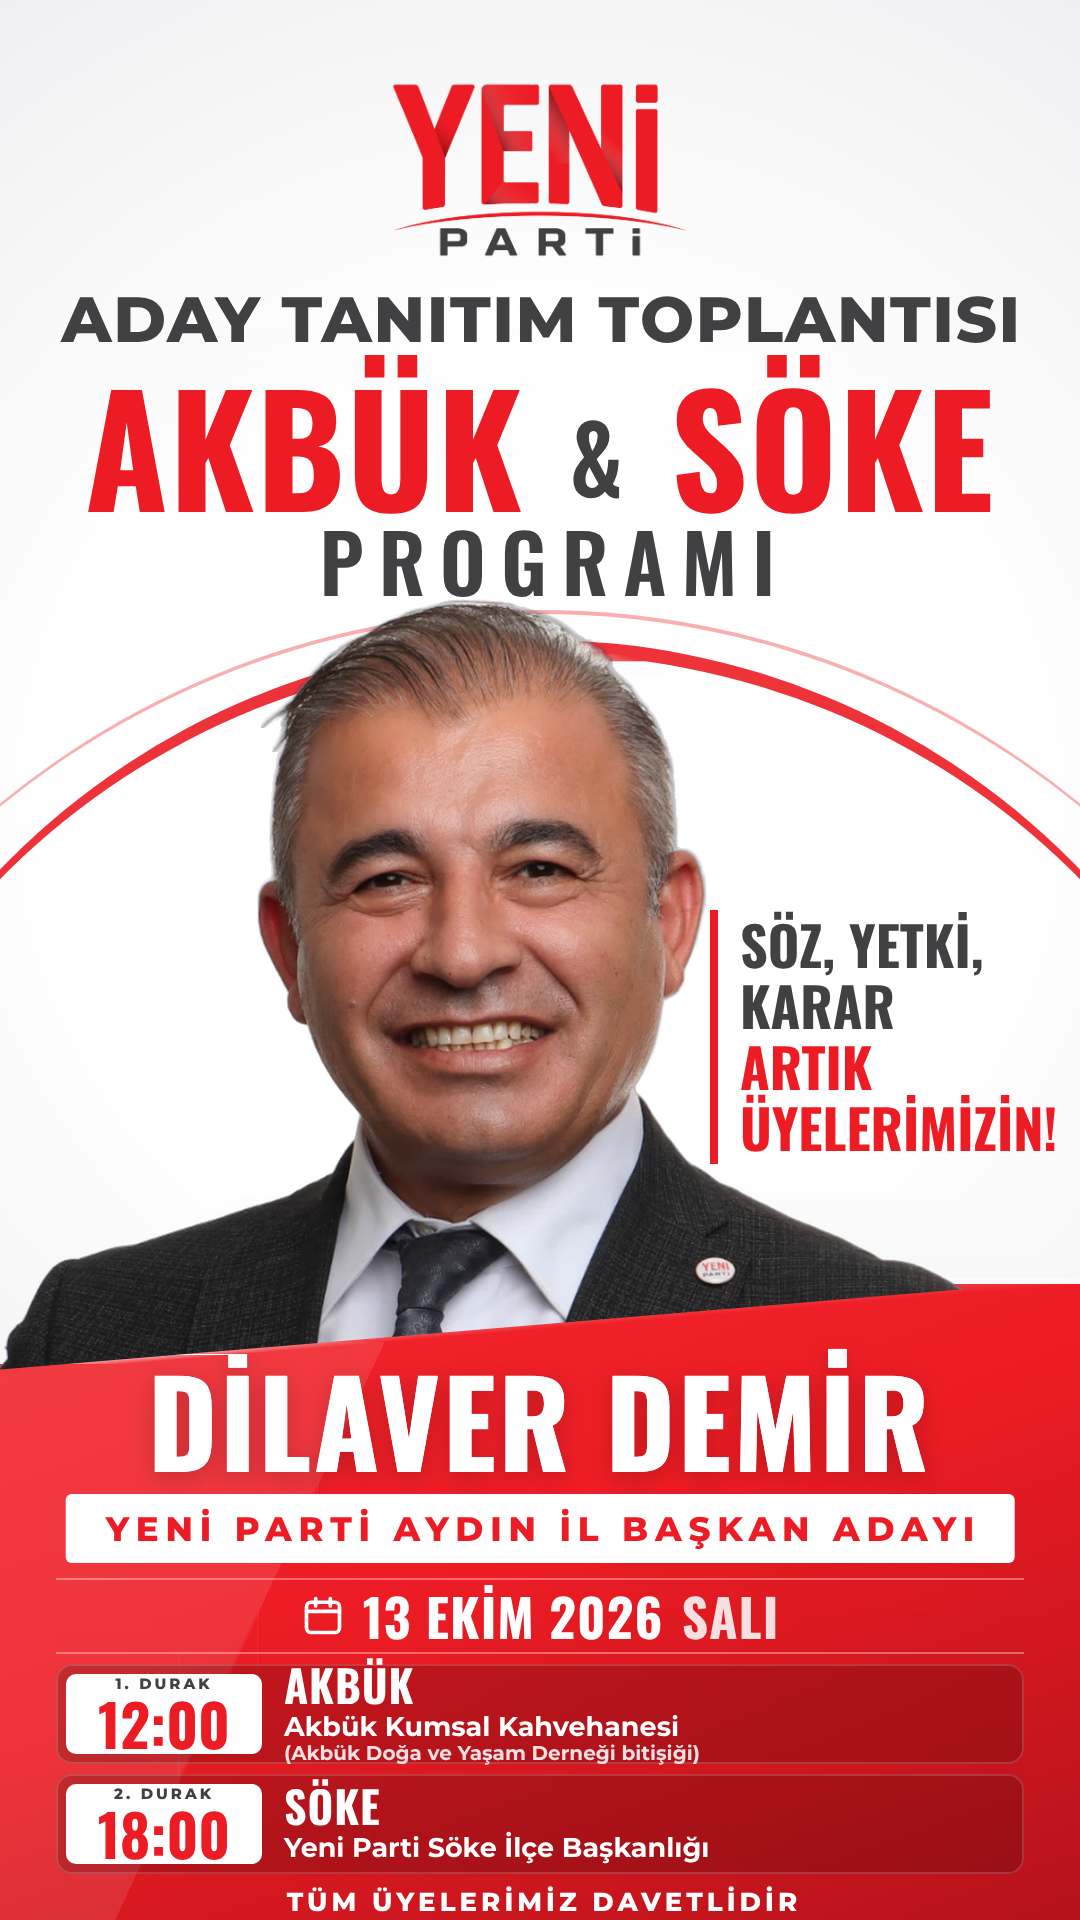
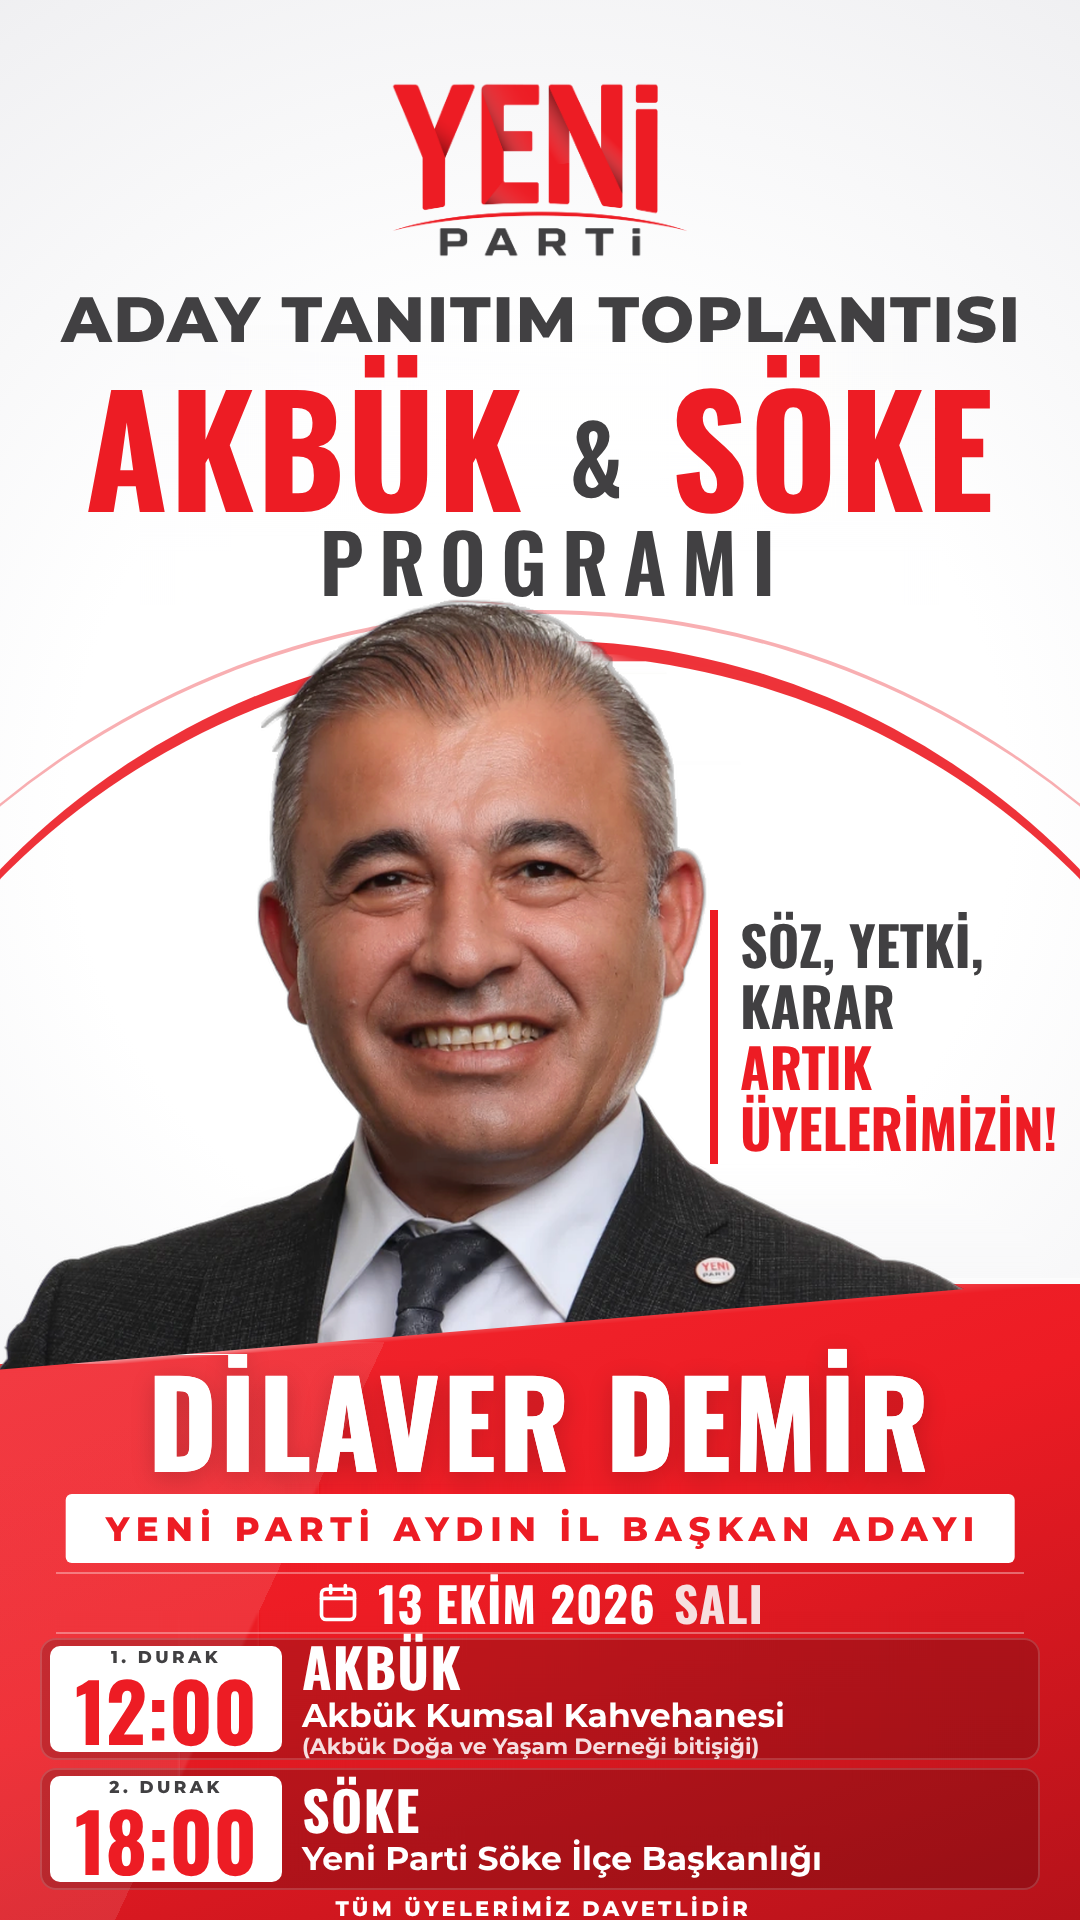
Akbük & Söke: saat ve konumlar büyütüldü
Claude-Session: https://claude.ai/code/session_01SatttGbgBLoCnk9KGLypWv

Changed region(s): [[0.0306, 0.8125, 0.9778, 1.0]]

diff --git a/tasarim/kisisel/incirliova-orgut/akbuk-soke.html b/tasarim/kisisel/incirliova-orgut/akbuk-soke.html
@@ -34,20 +34,20 @@ body{position:relative;background:url(zemin-buyuk.png) 0 0/1080px 1920px no-repe
   font:54px/1.13 O7;letter-spacing:0;color:var(--koyu)}
 .slogan em{display:block;font-style:normal;color:var(--kirmizi)}
 .sehir .ve{color:var(--koyu);font-size:.62em;vertical-align:.16em;margin:0 .06em}
-.tarih-bant{position:absolute;left:56px;right:56px;top:1578px;height:72px;display:flex;align-items:center;justify-content:center;gap:18px;
+.tarih-bant{position:absolute;left:56px;right:56px;top:1572px;height:58px;display:flex;align-items:center;justify-content:center;gap:18px;
   color:#fff;border-top:2px solid rgba(255,255,255,.35);border-bottom:2px solid rgba(255,255,255,.35)}
 .tarih-bant svg{width:44px;height:44px}
-.tarih-bant b{font:52px/1 O7;font-weight:normal;letter-spacing:.02em}
-.tarih-bant span{font:52px/1 O7;letter-spacing:.02em;color:var(--etiket)}
-.durak{position:absolute;left:56px;right:56px;height:100px;display:flex;align-items:center;gap:22px;
+.tarih-bant b{font:48px/1 O7;font-weight:normal;letter-spacing:.02em}
+.tarih-bant span{font:48px/1 O7;letter-spacing:.02em;color:var(--etiket)}
+.durak{position:absolute;left:40px;right:40px;height:122px;display:flex;align-items:center;gap:20px;
   background:rgba(0,0,0,.18);box-shadow:inset 0 0 0 2px rgba(255,255,255,.16);border-radius:16px;padding:0 24px 0 10px;box-sizing:border-box;color:#fff}
-.durak .saat{flex:none;width:196px;height:80px;background:#fff;border-radius:10px;color:var(--kirmizi);
-  display:flex;flex-direction:column;align-items:center;justify-content:center;font:58px/1 O7}
-.durak .saat small{font:15px/1 M8;letter-spacing:.2em;color:var(--koyu);margin-bottom:3px}
+.durak .saat{flex:none;width:232px;height:106px;background:#fff;border-radius:10px;color:var(--kirmizi);
+  display:flex;flex-direction:column;align-items:center;justify-content:center;font:80px/1 O7}
+.durak .saat small{font:17px/1 M8;letter-spacing:.2em;color:var(--koyu);margin-bottom:3px}
 .durak .bilgi{display:flex;flex-direction:column;justify-content:center;min-width:0}
-.durak .bilgi b{font:44px/1 O7;font-weight:normal;letter-spacing:.02em}
-.durak .bilgi span{font:27px/1.15 M7;margin-top:4px;white-space:nowrap}
-.durak .bilgi i{font:20px/1.15 M7;font-style:normal;color:var(--etiket);white-space:nowrap}
+.durak .bilgi b{font:54px/1 O7;font-weight:normal;letter-spacing:.02em}
+.durak .bilgi span{font:33px/1.12 M7;margin-top:4px;white-space:nowrap}
+.durak .bilgi i{font:22px/1.15 M7;font-style:normal;color:var(--etiket);white-space:nowrap}
 </style>
 <body style="--t1:var(--T1,280px);--t2:var(--T2,332px);--t3:var(--T3,500px)">
 
@@ -65,13 +65,13 @@ body{position:relative;background:url(zemin-buyuk.png) 0 0/1080px 1920px no-repe
   <b>13 EKİM 2026</b><span>SALI</span>
 </div>
 
-<div class="durak" style="top:1664px">
+<div class="durak" style="top:1638px">
   <div class="saat"><small>1. DURAK</small>12:00</div>
   <div class="bilgi"><b>AKBÜK</b><span>Akbük Kumsal Kahvehanesi</span><i>(Akbük Doğa ve Yaşam Derneği bitişiği)</i></div>
 </div>
-<div class="durak" style="top:1774px">
+<div class="durak" style="top:1768px">
   <div class="saat"><small>2. DURAK</small>18:00</div>
   <div class="bilgi"><b>SÖKE</b><span>Yeni Parti Söke İlçe Başkanlığı</span></div>
 </div>
-<div class="m" style="top:1886px;font:26px M8;letter-spacing:.156em;padding-left:.156em;color:#fff">TÜM ÜYELERİMİZ DAVETLİDİR</div>
+<div class="m" style="top:1896px;font:21px M8;letter-spacing:.156em;padding-left:.156em;color:#fff">TÜM ÜYELERİMİZ DAVETLİDİR</div>
 </body></html>
